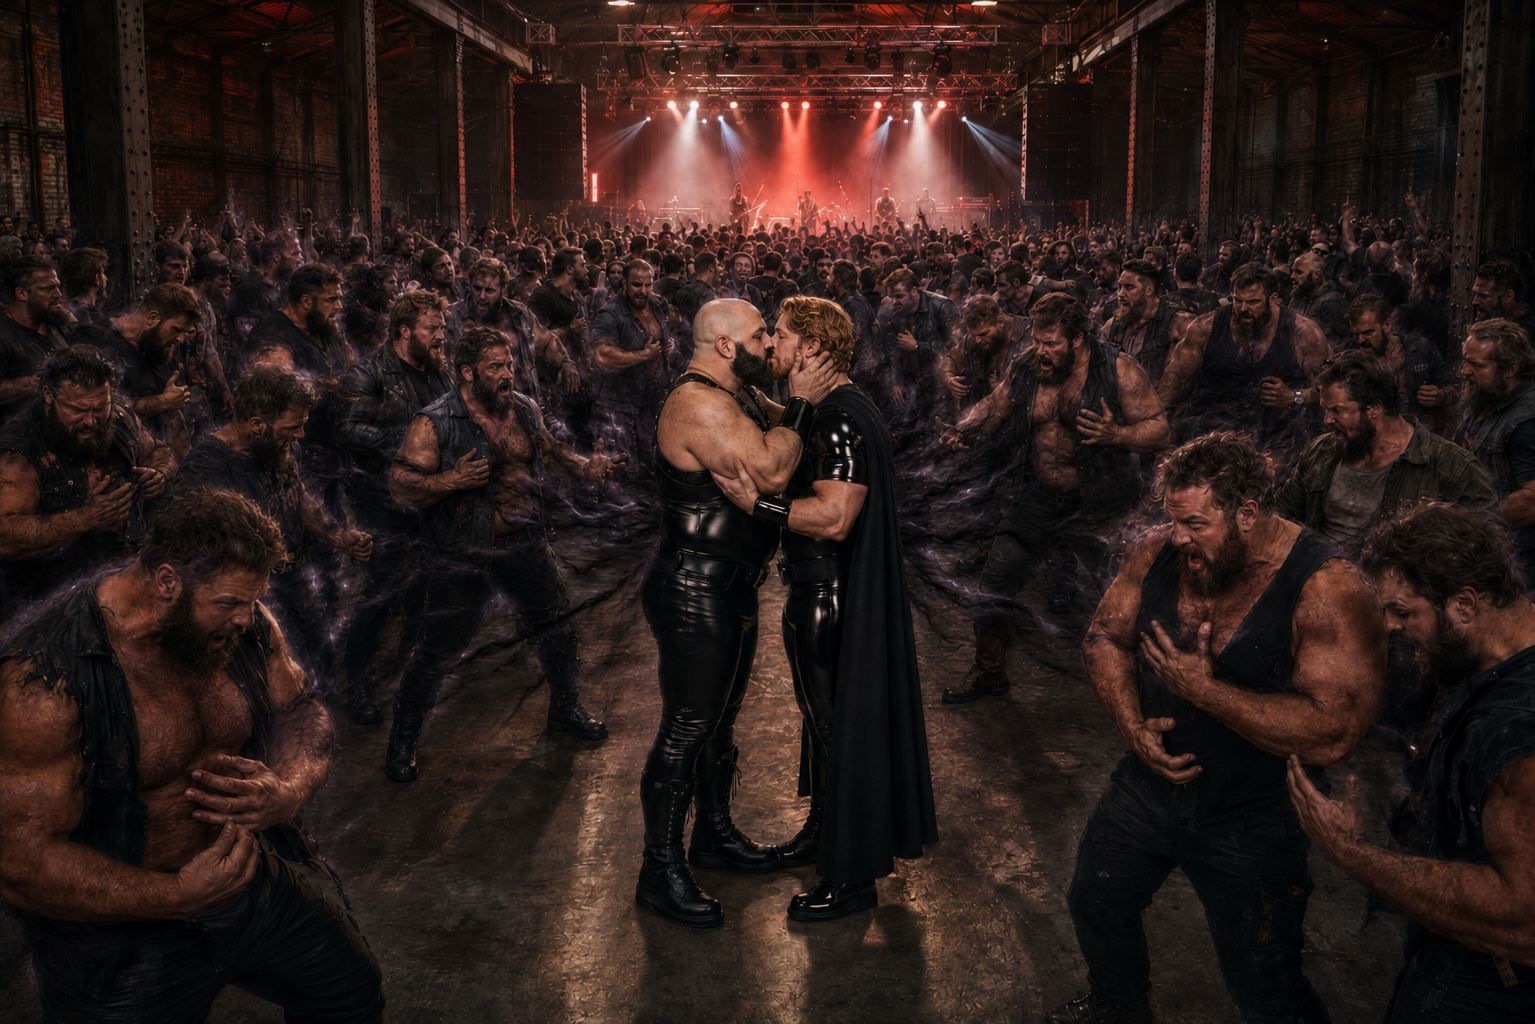
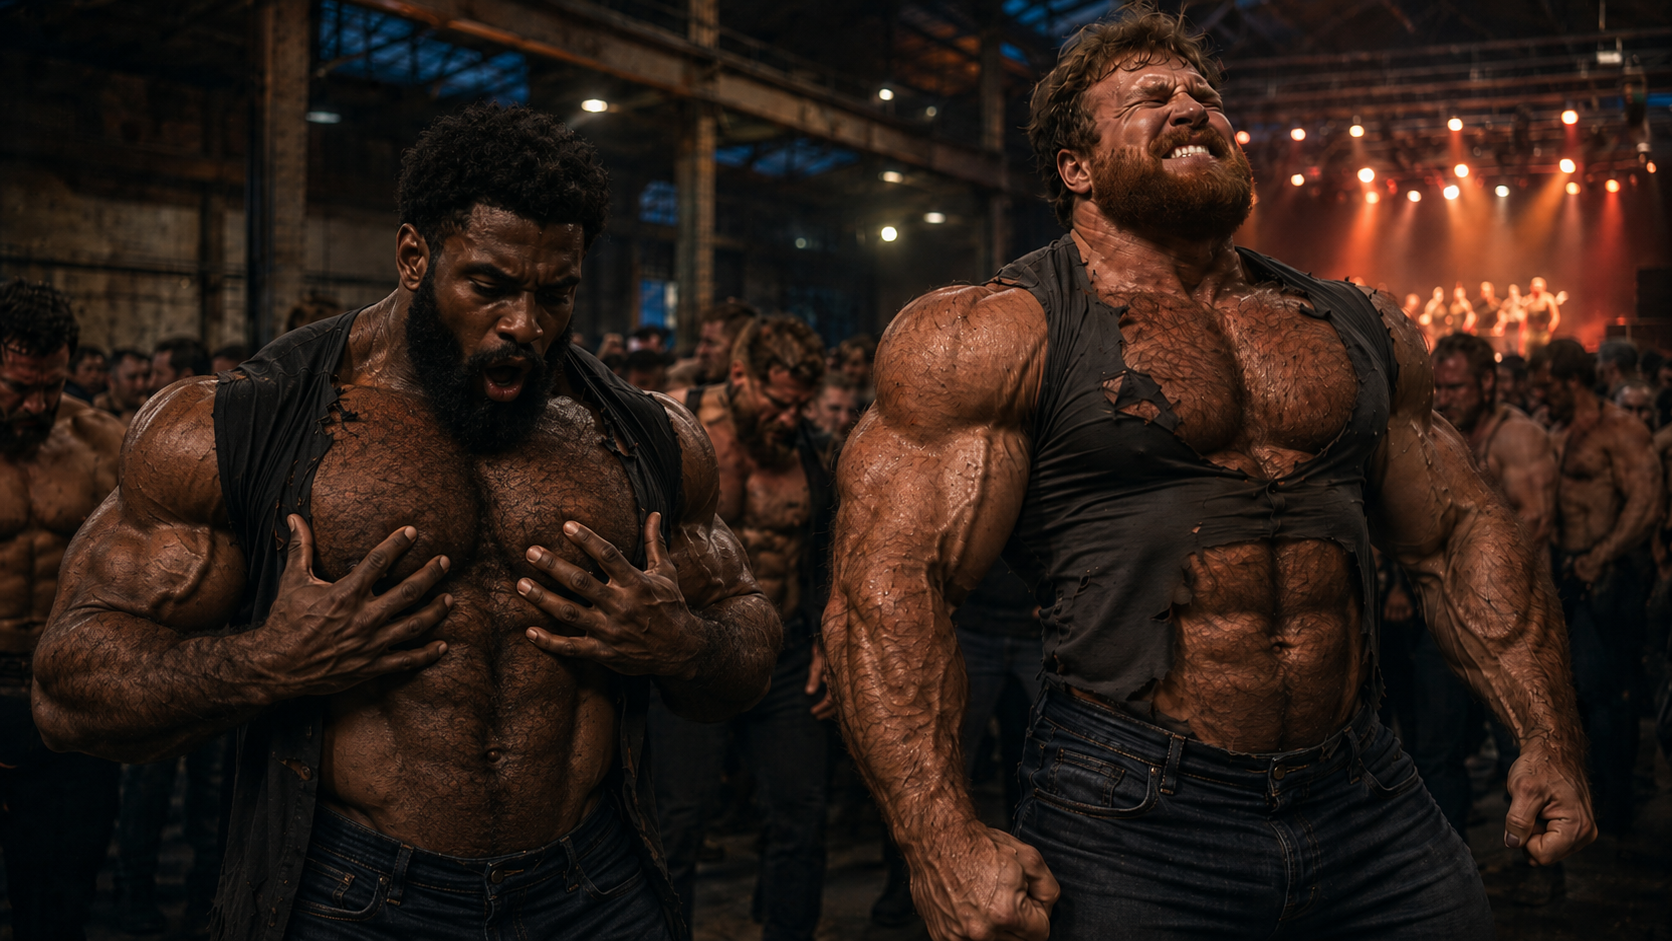
Edited images for chapter 17

diff --git a/stories/ch17-draft.md b/stories/ch17-draft.md
@@ -156,17 +156,17 @@ Bill moved into the center of the floor. The crowd parted unconsciously around h
 
 Nick stepped off the stairs, moving through the dense crowd as their attention slid off his slick rubber skin. He reached the center of the floor, stepping directly into Bill’s space. Bill’s hands came to either side of his face, tipping him up, and the kiss arrived with consuming, violent force.
 
-[![](/website/assets/images/ch17/011.jpeg)](/website/assets/images/ch17/011.jpeg)
-
 Heat rolled out of him in a single blinding pulse, meeting whatever was pouring out of Bill in the same instant, and the two forces slammed together and doubled and doubled again, faster than either of them could have carried it alone. The pressure in the room changed instantly, hard enough that eardrums popped across the floor. The bass line under the music warped, dragged low and wrong for half a second before the wave swallowed it whole.
 
 Then it hit the crowd.
 
+[![](/website/assets/images/ch17/011.png)](/website/assets/images/ch17/011.png)
+
 Nick heard it more than he saw — hundreds of seams tearing open in the same half-second, a ragged chorus of ripping denim and snapping leather, shirts giving out at the shoulders one after another, down the length of the room. The smell changed next, sharp and animal, sweat turning into something thicker that rolled over the crowd in its own wave. Bodies doubled in mass around him, and he felt it as displaced air — small shoves of pressure against his skin as narrow men exploded into more, shoulders knocking into shoulders that hadn't been there a second before.
 
-[![](/website/assets/images/ch17/012.png)](/website/assets/images/ch17/012.png)
-
 Men went down to the floor in twos and threes, sounds tearing out of throats from surprise, pain, and pleasure, until screams and moans blurred beyond distinction. A man near the stage threw his head back in a yell and the sound cracked halfway through into something lower, rougher, a laugh dragged through a throat that hadn't had that register a minute before.
+
+[![](/website/assets/images/ch17/012.png)](/website/assets/images/ch17/012.png)
 
 Nick stood in the middle unphased.
 
